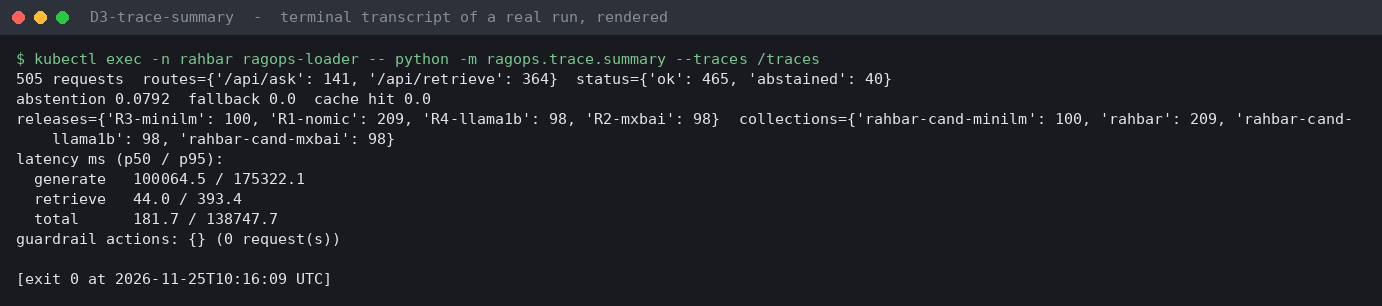
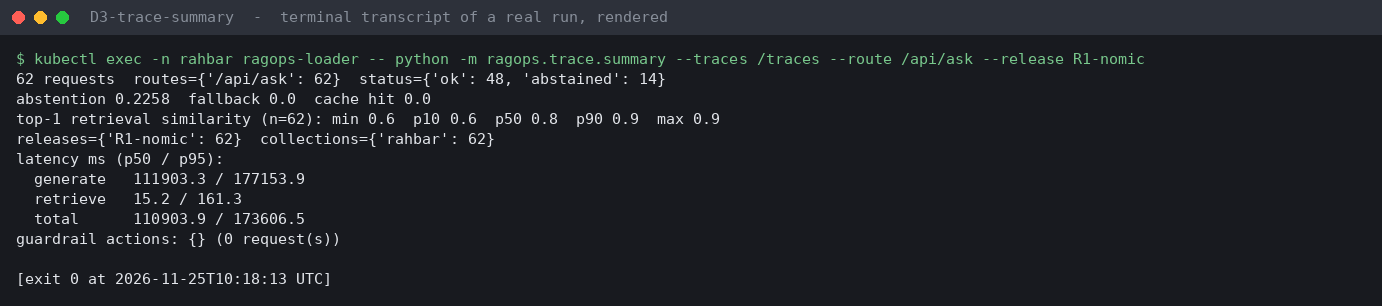
trace.summary: similarity percentiles at 4 decimals

diff --git a/ragops/trace/summary.py b/ragops/trace/summary.py
@@ -56,9 +56,13 @@ def summarise(rows: list[dict[str, Any]]) -> dict[str, Any]:
     top1 = [float(c[0]["score"]) for r in rows
             for c in [((r.get("retrieval") or {}).get("candidates") or [])] if c]
 
+    def q4(vals: list[float], q: float) -> float | None:
+        x = percentile(vals, q)
+        return None if x is None else round(x, 4)          # similarities need 4 decimals, latencies 1
+
     def dist(vals: list[float]) -> dict[str, float | int | None]:
-        return {"n": len(vals), "min": p(vals, 0), "p10": p(vals, 10), "p50": p(vals, 50),
-                "p90": p(vals, 90), "max": p(vals, 100)} if vals else {"n": 0}
+        return {"n": len(vals), "min": q4(vals, 0), "p10": q4(vals, 10), "p50": q4(vals, 50),
+                "p90": q4(vals, 90), "max": q4(vals, 100)} if vals else {"n": 0}
     rails = Counter(f"{g['rail']}:{g['action']}" for r in rows for g in (r.get("guardrails") or []))
     return {"requests": n, "by_route": dict(Counter(r["route"] for r in rows)),
             "by_status": dict(status),
@@ -66,7 +70,7 @@ def summarise(rows: list[dict[str, Any]]) -> dict[str, Any]:
             "fallback_rate": round(status.get("fallback", 0) / n, 4) if n else None,
             "cache_hit_rate": round(sum(1 for r in rows if (r.get("cache") or {}).get("hit")) / n, 4)
             if n else None,
-            "top1_similarity": {k: (round(v, 4) if isinstance(v, float) else v) for k, v in dist(top1).items()},
+            "top1_similarity": dist(top1),
             "latency_ms": {k: {"p50": p(v, 50), "p95": p(v, 95)} for k, v in sorted(stages.items())},
             "releases": dict(Counter(r.get("release_id") for r in rows)),
             "collections": dict(Counter((r.get("collection") or {}).get("name") for r in rows)),
